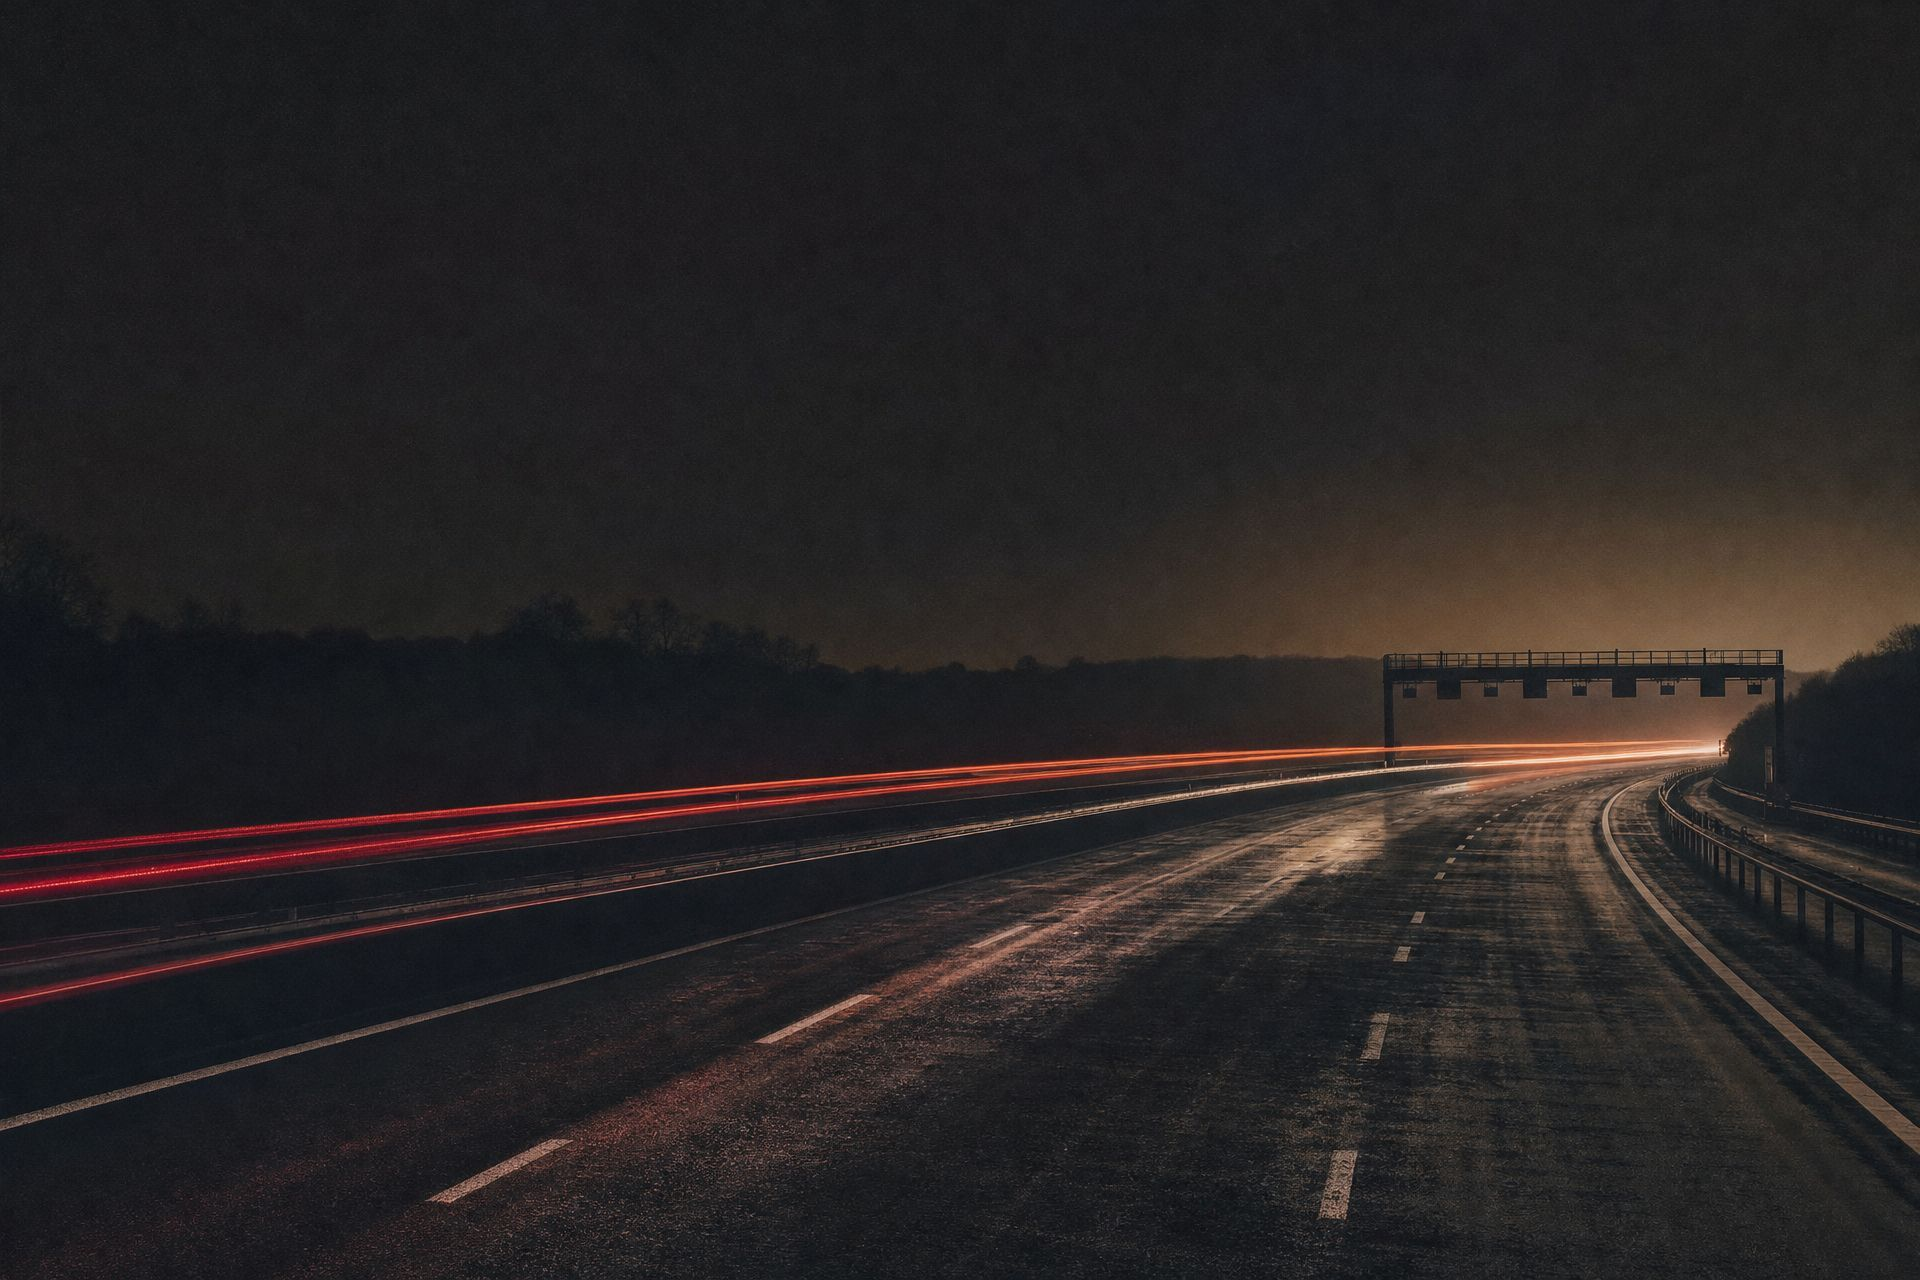
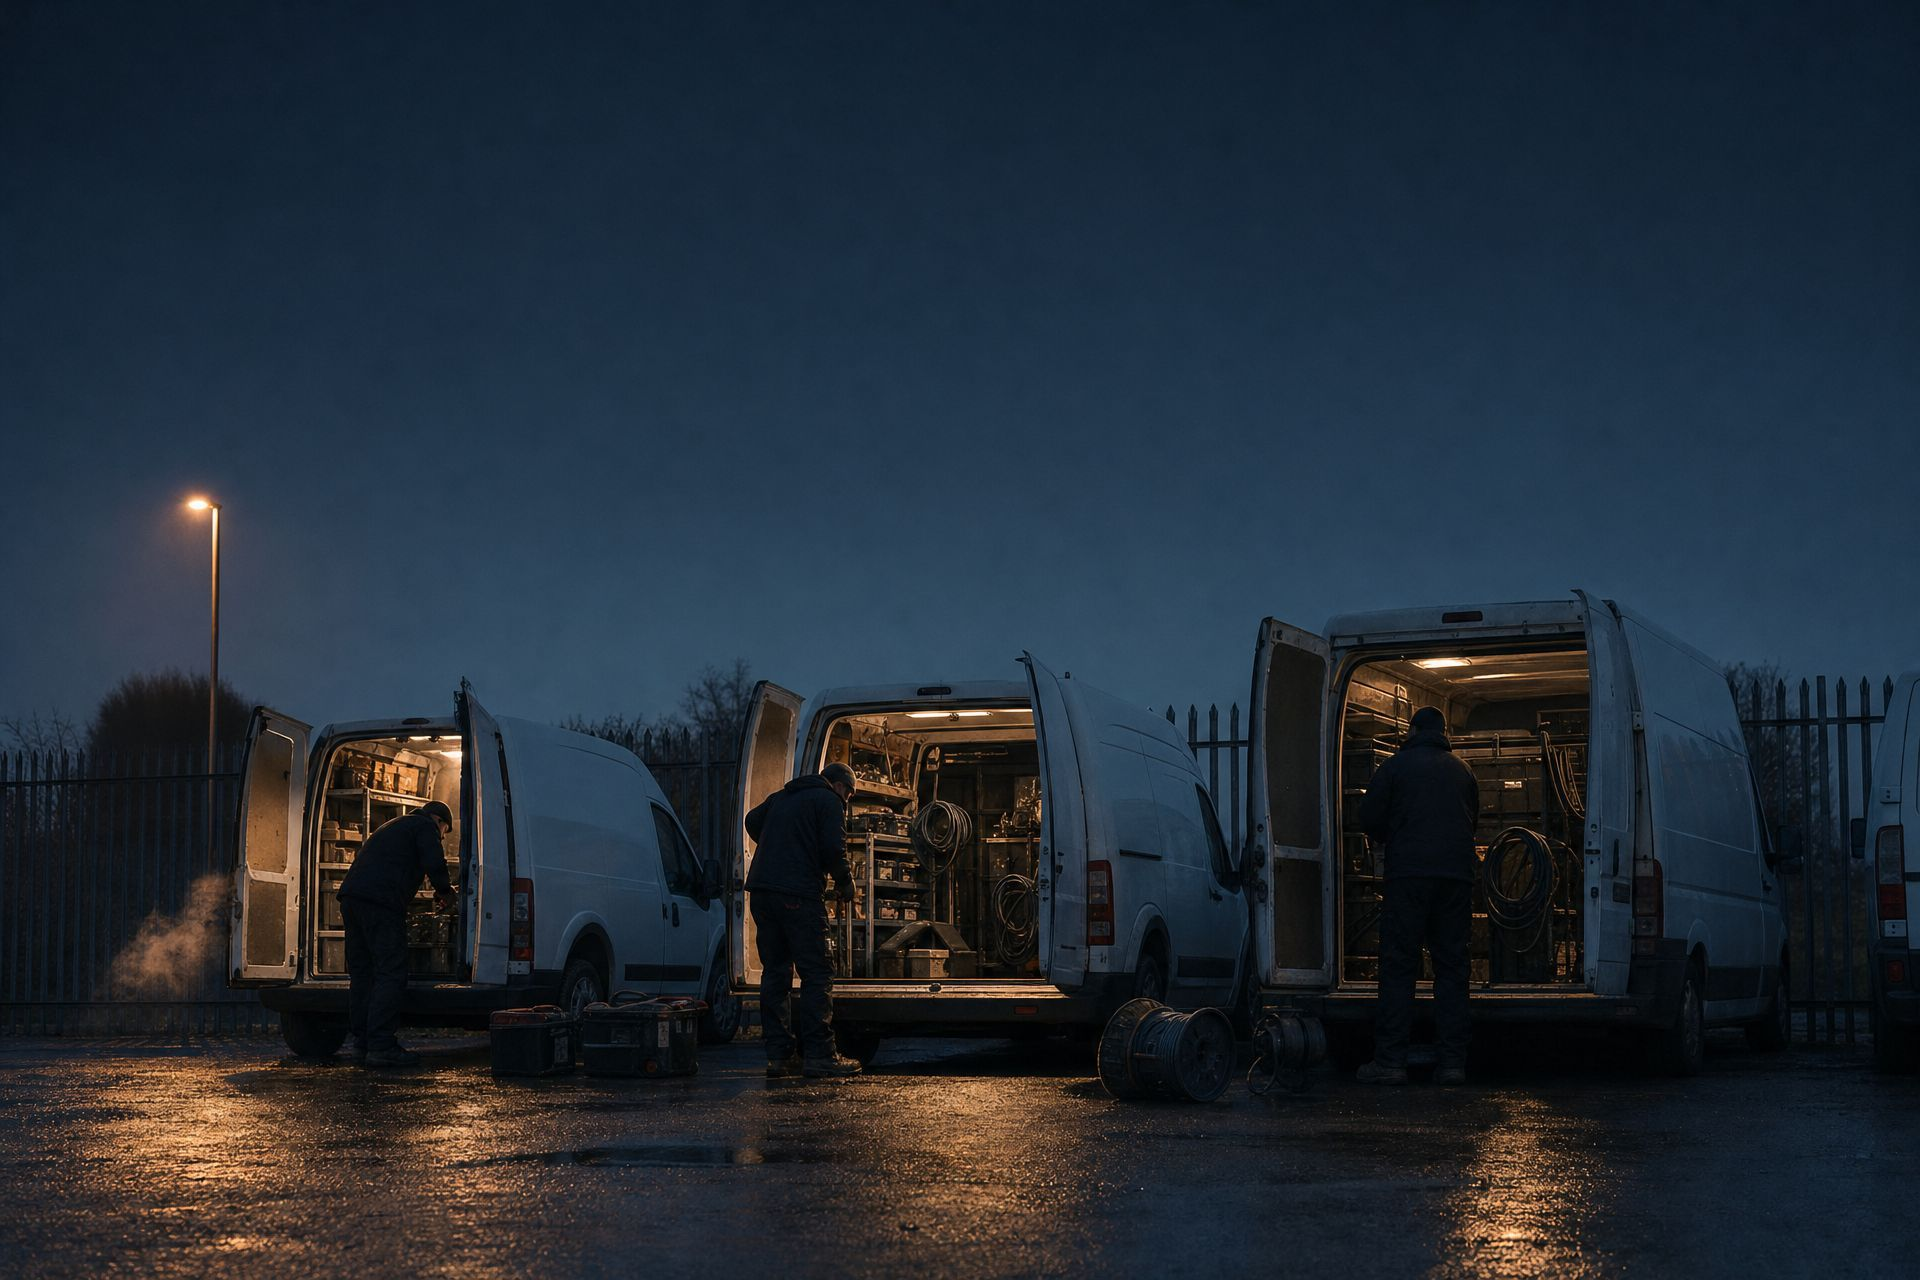
Homepage: new closing image of vans loading before dawn
Replace the motorway light trails, which read too close to the reference,
with a depot yard scene, and move the headline into the sky.

Claude-Session: https://claude.ai/code/session_013Zv7aFEDBNm2jYw2AVvgBS

diff --git a/homepage/styles.css b/homepage/styles.css
@@ -354,8 +354,9 @@ body.menu-open { overflow: hidden; }
 
 .cta { position: relative; color: #fff; background: var(--ink); isolation: isolate; }
 .cta .shot { position: absolute; inset: 0; z-index: -1; }
-.cta .shot::after { content: ''; position: absolute; inset: 0; background: linear-gradient(180deg, rgba(13,14,16,0.9) 0%, rgba(13,14,16,0.25) 40%, rgba(13,14,16,0.6) 100%); }
-.cta__body { min-height: clamp(460px, 62vw, 760px); display: grid; place-content: center; justify-items: center; gap: 22px; text-align: center; padding: 80px var(--gutter); }
+.cta .shot::after { content: ''; position: absolute; inset: 0; background: linear-gradient(180deg, rgba(13,14,16,0.85) 0%, rgba(13,14,16,0.2) 45%, rgba(13,14,16,0.15) 75%, rgba(13,14,16,0.6) 100%); }
+.cta__body { min-height: clamp(520px, 62vw, 820px); display: grid; align-content: start; justify-content: center; justify-items: center; gap: 22px; text-align: center; padding: clamp(72px, 9vw, 140px) var(--gutter) 80px; }
+.cta .shot img { object-position: center bottom; }
 .cta h2 { font-weight: 400; font-size: clamp(38px, 5.2vw, 72px); line-height: 1.02; letter-spacing: -0.035em; }
 
 /* ---------- 9. Footer ---------- */

diff --git a/homepage/index.html b/homepage/index.html
@@ -162,10 +162,10 @@
     <!-- 8. Closing CTA -->
     <section id="contact" class="cta">
       <figure class="shot" data-img="cta">
-        <img src="images/cta.jpg" alt="Light trails on a motorway at night" loading="lazy">
+        <img src="images/cta.jpg" alt="Engineers loading their vans in a depot yard before dawn" loading="lazy">
       </figure>
       <div class="cta__body">
-        <h2>Keep your business<br>moving forward</h2>
+        <h2>Ready before<br>the vans roll out</h2>
         <a class="btn btn--dark" href="pricing.html#demo">Book a demo</a>
       </div>
     </section>
